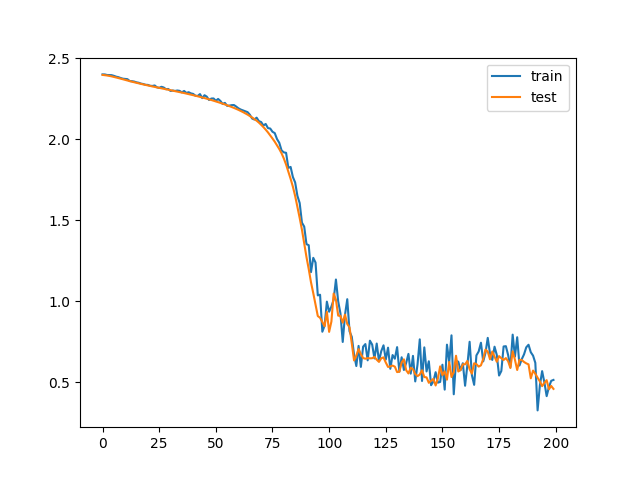
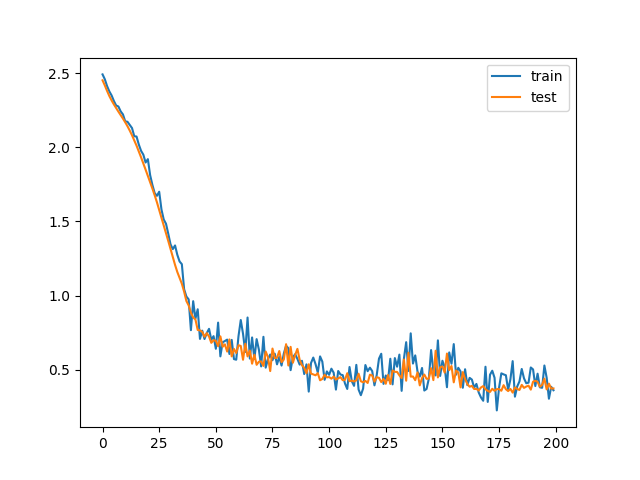
updated conv layer: now cross-correlation -> convolution

diff --git a/network/core.py b/network/core.py
@@ -187,7 +187,7 @@ class Conv2DLayer(Layer):
         # же размера, как и фильтр)
         windows = np.lib.stride_tricks.sliding_window_view(inputs,
                                                            [self.weights.shape[2], self.weights.shape[3]],
-                                                           axis=(-1, -2))  # (batch_size, channels, height, width)
+                                                           axis=(-2, -1))  # (batch_size, channels, height, width)
 
         # вариант реализации свёртки через einsum - перемножение происходит между осями, обозначенные одинаковой буквой,
         # оси, буквы которых не написаны после стрелки - вдоль них происходит суммирование, (m,n) - ширина и высота
@@ -221,8 +221,18 @@ class Conv2DLayer(Layer):
         #  Когда считаем производные весов в свёрточном слое, производная тоже будет свёрткой. Для того, чтобы сделать
         #  аналогичные преобразования, как в функции convolution, используем такую же функцию, используя свёртку на том,
         #  что было на входе, с тем, что поступило на вход back propagation (dZ)
-        windows_res = np.lib.stride_tricks.sliding_window_view(self.cache[0], [dZ.shape[2], dZ.shape[3]],
-                                                               axis=(-1, -2))
+
+        windows_res = np.lib.stride_tricks.sliding_window_view(self.cache[0],
+                                                               [dZ.shape[2], dZ.shape[3]],
+                                                               axis=(-2, -1))
+        """
+        В процессе
+                dZ_strides = np.zeros((dZ.shape[0], dZ.shape[1], dZ.shape[2] * self.stride - (self.stride - 1),
+                                       dZ.shape[3] * self.stride - (self.stride - 1)))
+                dZ_strides[:, :, ::self.stride, ::self.stride] = dZ
+
+                #dZ_strides = np.pad(dZ_strides, ((0, 0), (0, 0), (0, 1), (0, 1)), 'constant', constant_values=0)
+                """
         # аналогично перемножаем нужные оси, чтобы получить производную весов
         dW = np.einsum('ijklmn, iomn -> ojkl', windows_res, dZ)
         dW *= (1 / self.cache[0].shape[0])
@@ -244,7 +254,8 @@ class Conv2DLayer(Layer):
         # аналогичным образом, разбиваем на окна для нормальной возможности умножения
         dZ_windows = np.lib.stride_tricks.sliding_window_view(padded, [padded.shape[2] - self.weights.shape[2] + 1,
                                                                        padded.shape[3] - self.weights.shape[3] + 1],
-                                                              axis=(-1, -2))
+                                                              axis=(-2, -1))
+
         # расчёт производной dZ для следующего слоя в back propagation
         dZ_next = np.einsum('ijklmn, jokl -> iomn', dZ_windows, weights_flipped)
         return dW, dZ_next

diff --git a/main.py b/main.py
@@ -11,19 +11,19 @@ def make_model():
     """
     Function to make model
     """
-    conv = Conv2DLayer(4, 1, filter_size=3, padding=True, activation='relu')
+    conv = Conv2DLayer(8, 1, filter_size=3, padding=True, activation='relu', stride=1)
     pool = MaxPoolingLayer()
-    conv2 = Conv2DLayer(8, 4, filter_size=3, padding=True, activation='relu')
-    pool2 = MaxPoolingLayer()
+    #conv2 = Conv2DLayer(8, 4, filter_size=3, padding=True, activation='relu')
+    #pool2 = MaxPoolingLayer()
     flatten = FlattenLayer()
-    h_1 = DenseLayer(128, 392, 'relu')
-    h_2 = DenseLayer(64, 128, 'relu')
-    end_network = DenseLayer(11, 64, 'softmax')
-    network = NeuralNetwork([conv, pool, conv2, pool2, flatten, h_1, h_2, end_network])
+    h_1 = DenseLayer(128, 8 * 14 * 14, 'relu')
+    #h_2 = DenseLayer(64, 128, 'relu')
+    end_network = DenseLayer(11, 128, 'softmax')
+    network = NeuralNetwork([conv, pool, flatten, h_1, end_network])
     return network
 
 
-def train_model(model, data, labels, epochs=200, batch_size=32, val=None, learning_rate=0.016, beta=0.9):
+def train_model(model, data, labels, epochs=200, batch_size=32, val=None, learning_rate=0.016/4, beta=0.9):
     train_loss = []
     if val is not None:
         valid_loss = []
@@ -64,4 +64,4 @@ train_errors, valid_errors = train_model(nn, X_train, y_train, batch_size=batch_
 plt.plot(train_errors, label='train')
 plt.plot(valid_errors, label='test')
 plt.legend()
-plt.savefig('graph_conv_with_two_convolutions.png')
+#plt.savefig('graph_without_conv.png')

diff --git a/network/utils.py b/network/utils.py
@@ -28,12 +28,12 @@ def im2col_indices(x, filter_height, filter_with, padding=0, stride=1):
     x_padded = np.pad(x, ((0, 0), (0, 0), (p, p), (p, p)), mode='constant', constant_values=0)
 
     k, i, j = get_im2col_indices(x.shape, filter_height, filter_with, padding, stride)
-    print(k.shape, i.shape, j.shape, x_padded.shape)
+    #print(k.shape, i.shape, j.shape, x_padded.shape)
     cols = x_padded[:, k, i, j]
-    print(cols.shape)
+    #print(cols.shape)
     C = x.shape[1]
     cols = cols.transpose(1, 2, 0).reshape(filter_height * filter_with * C, -1)
-    print(cols.shape)
+    #print(cols.shape)
     return cols
 
 
@@ -46,7 +46,7 @@ def col2im_indices(cols, x_shape, filter_height, filter_width, padding=0,
     H_padded, W_padded = H + 2 * padding, W + 2 * padding
     x_padded = np.zeros((N, C, H_padded, W_padded), dtype=cols.dtype)
     k, i, j = get_im2col_indices(x_shape, filter_height, filter_width, padding, stride)
-    print(k, i, j)
+    #print(k, i, j)
     cols_reshaped = cols.reshape(C * filter_height * filter_width, -1, N)
     cols_reshaped = cols_reshaped.transpose(2, 0, 1)
     np.add.at(x_padded, (slice(None), k, i, j), cols_reshaped)
